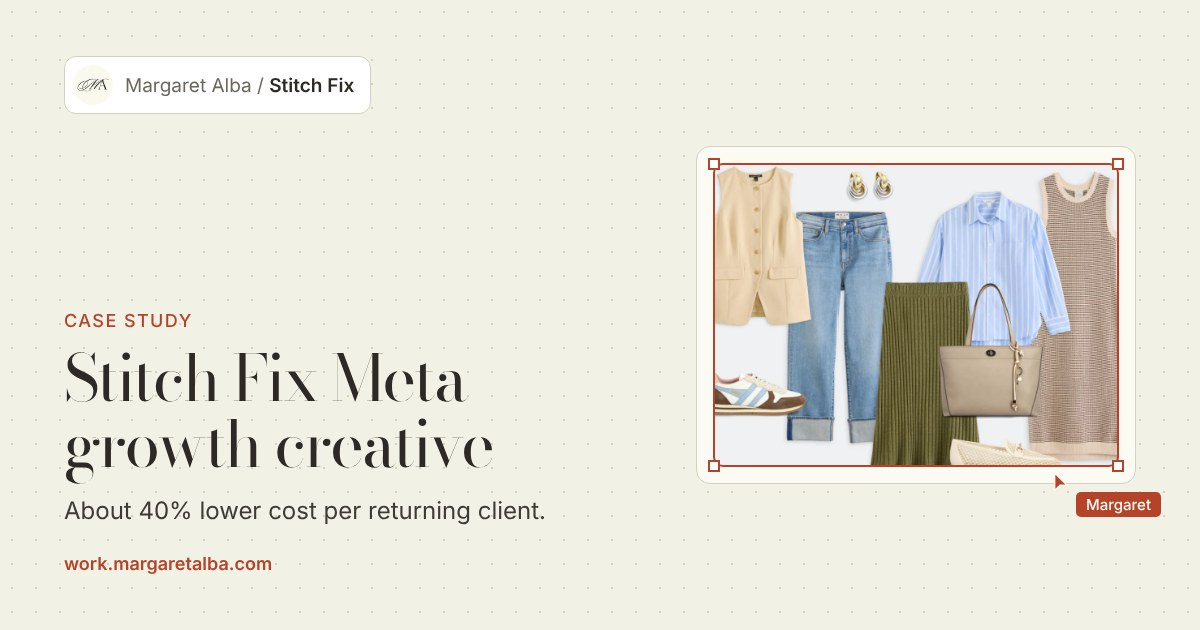
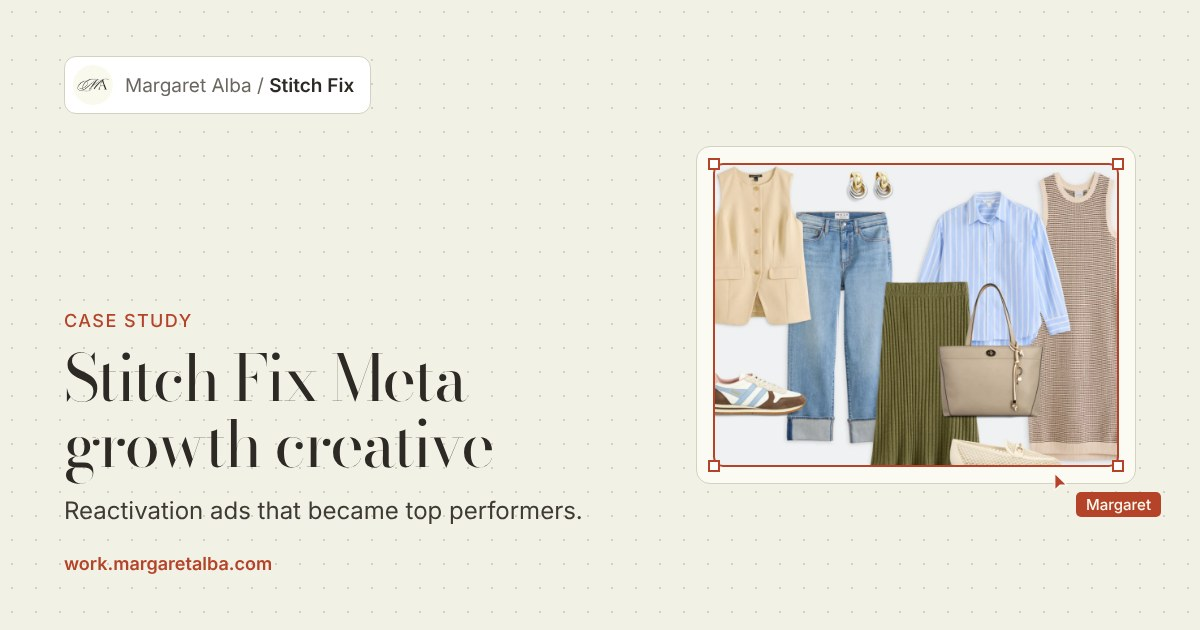
Hide the site from search again; describe Stitch Fix results without figures
Re-adds noindex to every page and drops the sitemap. Stitch Fix reactivation
results are now stated qualitatively; the homepage row uses the 96-asset count.

Claude-Session: https://claude.ai/code/session_01Bp2y4MwKfvAmLHEs5SbnWi

Changed region(s): [[0.0308, 0.7841, 0.4933, 0.8444]]

diff --git a/index.html b/index.html
@@ -7,6 +7,8 @@
 <meta name="description" content="Margaret Alba is a marketer with a designer’s eye. Campaigns, promotions, and paid social for direct-to-consumer brands.">
 <meta property="og:title" content="Margaret Alba | Marketing portfolio">
 <meta property="og:description" content="Margaret Alba is a marketer with a designer’s eye. Campaigns, promotions, and paid social for direct-to-consumer brands.">
+<!-- Hidden from search engines while job hunting. Delete the next line to let Google list the site. -->
+<meta name="robots" content="noindex">
 <meta property="og:type" content="website">
 <link rel="canonical" href="https://work.margaretalba.com/">
 <meta property="og:url" content="https://work.margaretalba.com/">
@@ -114,7 +116,7 @@ div[style*="repeat(4,1fr)"]{grid-template-columns:repeat(2,1fr)!important}
 <div style="font-size:13px;letter-spacing:.08em;text-transform:uppercase;color:#B54329;font-weight:500">Selected work</div>
 <h1 class="bd" style="margin:0;font-size:68px;line-height:1.04;letter-spacing:-.03em">Marketing with a designer’s&nbsp;eye<span class="gc" aria-hidden="true"><span class="cu"><svg width="20" height="30" viewBox="0 0 24 36" fill="none"><path d="M5.65376 12.3673H5.46026L5.31717 12.4976L0.500002 16.8829L0.500002 1.19841L11.7841 12.3673H5.65376Z" fill="#B54329" stroke="white"/></svg><b>Hi, I’m Margaret</b></span></span></h1>
 <p style="margin:0;font-size:19px;color:#3E3A34;max-width:600px">Campaigns, promotions, and paid social for direct-to-consumer brands. Here are a few of my case studies.</p>
-<div style="display:flex;flex-wrap:wrap;gap:20px 40px;margin-top:28px"><div style="display:flex;flex-direction:column;gap:2px"><span class="bd" style="font-size:40px;line-height:1;color:#B54329">~40%</span><span style="font-size:13px;color:#6B665E">lower cost per returning client, Stitch Fix</span></div><div style="display:flex;flex-direction:column;gap:2px"><span class="bd" style="font-size:40px;line-height:1;color:#B54329">+220%</span><span style="font-size:13px;color:#6B665E">GMV, LTK × Madewell sale</span></div><div style="display:flex;flex-direction:column;gap:2px"><span class="bd" style="font-size:40px;line-height:1;color:#B54329">459K</span><span style="font-size:13px;color:#6B665E">views on a wool&amp; Short</span></div></div>
+<div style="display:flex;flex-wrap:wrap;gap:20px 40px;margin-top:28px"><div style="display:flex;flex-direction:column;gap:2px"><span class="bd" style="font-size:40px;line-height:1;color:#B54329">96</span><span style="font-size:13px;color:#6B665E">Meta assets in one Stitch Fix campaign</span></div><div style="display:flex;flex-direction:column;gap:2px"><span class="bd" style="font-size:40px;line-height:1;color:#B54329">+220%</span><span style="font-size:13px;color:#6B665E">GMV, LTK × Madewell sale</span></div><div style="display:flex;flex-direction:column;gap:2px"><span class="bd" style="font-size:40px;line-height:1;color:#B54329">459K</span><span style="font-size:13px;color:#6B665E">views on a wool&amp; Short</span></div></div>
 <div class="bub" style="position: absolute; right: -139px; top: -15px; display: flex; align-items: flex-start; gap: 8px" aria-hidden="true"><div style="width:32px;height:32px;border-radius:50% 50% 50% 0;background:#B54329;color:#F9F9EE;display:flex;align-items:center;justify-content:center;font-size:13px;font-weight:600">1</div><div style="background:#fff;border:1px solid #D5D1C0;border-radius:12px;padding:10px 14px;font-size:13px;width:170px;line-height:1.4">I also teach wax carving. <a href="https://margaretalba.com" style="color:#B54329;font-weight:600">Visit the studio →</a></div></div>
 </div>
 
@@ -123,7 +125,7 @@ div[style*="repeat(4,1fr)"]{grid-template-columns:repeat(2,1fr)!important}
 
 <a class="fr" href="/stitch-fix-meta">
 <div style="display:flex;justify-content:space-between;font-size:12px;color:#6B665E"><span>Stitch Fix Meta Growth Creative</span><span>01</span></div>
-<div style="background:#FBFAF3;border:1px solid #D5D1C0;border-radius:12px;padding:16px;display:flex;flex-direction:column;gap:20px"><div class="ph" style="aspect-ratio:4/3;position:relative"><img loading="lazy" decoding="async" src="/assets/img/thumb-stitch-fix.webp" alt="A styled spring outfit flat lay: a cream vest, cuffed jeans, a blue striped shirt, an olive skirt, a knit dress, a tote and sneakers." style="display:block;width:100%;height:100%;object-fit:cover;border-radius:10px"><div aria-hidden="true" style="position:absolute;inset:0;border:2px solid #B54329;border-radius:10px;pointer-events:none"><i class="hn" style="left:-6px;top:-6px"></i><i class="hn" style="right:-6px;top:-6px"></i><i class="hn" style="left:-6px;bottom:-6px"></i><i class="hn" style="right:-6px;bottom:-6px"></i><span style="position:absolute;left:12px;bottom:12px;background:#F9F9EE;border:1px solid #D5D1C0;border-radius:6px;padding:4px 10px;font-size:12px;font-weight:500;color:#2D2A25">Stitch Fix · Meta ads</span></div></div><div style="padding:0 8px 8px;display:flex;flex-direction:column;gap:14px"><div class="ct bd" style="font-size:28px;line-height:1.12;transition:color .2s">Meta ads for Stitch Fix, with about 40% lower cost per returning client.</div><div style="display:flex;flex-wrap:wrap;gap:8px"><span class="chip">Paid social</span><span class="chip">Reactivation</span><span class="chip">Acquisition</span></div></div></div>
+<div style="background:#FBFAF3;border:1px solid #D5D1C0;border-radius:12px;padding:16px;display:flex;flex-direction:column;gap:20px"><div class="ph" style="aspect-ratio:4/3;position:relative"><img loading="lazy" decoding="async" src="/assets/img/thumb-stitch-fix.webp" alt="A styled spring outfit flat lay: a cream vest, cuffed jeans, a blue striped shirt, an olive skirt, a knit dress, a tote and sneakers." style="display:block;width:100%;height:100%;object-fit:cover;border-radius:10px"><div aria-hidden="true" style="position:absolute;inset:0;border:2px solid #B54329;border-radius:10px;pointer-events:none"><i class="hn" style="left:-6px;top:-6px"></i><i class="hn" style="right:-6px;top:-6px"></i><i class="hn" style="left:-6px;bottom:-6px"></i><i class="hn" style="right:-6px;bottom:-6px"></i><span style="position:absolute;left:12px;bottom:12px;background:#F9F9EE;border:1px solid #D5D1C0;border-radius:6px;padding:4px 10px;font-size:12px;font-weight:500;color:#2D2A25">Stitch Fix · Meta ads</span></div></div><div style="padding:0 8px 8px;display:flex;flex-direction:column;gap:14px"><div class="ct bd" style="font-size:28px;line-height:1.12;transition:color .2s">Meta ads for Stitch Fix that brought lapsed clients back for less.</div><div style="display:flex;flex-wrap:wrap;gap:8px"><span class="chip">Paid social</span><span class="chip">Reactivation</span><span class="chip">Acquisition</span></div></div></div>
 <div class="sel" aria-hidden="true"><i class="hn" style="left:-6px;top:-6px"></i><i class="hn" style="right:-6px;top:-6px"></i><i class="hn" style="left:-6px;bottom:-6px"></i><i class="hn" style="right:-6px;bottom:-6px"></i></div>
 </a>
 

diff --git a/stitch-fix-meta/index.html b/stitch-fix-meta/index.html
@@ -4,9 +4,11 @@
 <meta charset="utf-8">
 <meta name="viewport" content="width=device-width, initial-scale=1">
 <title>Stitch Fix Meta Growth Creative | Margaret Alba</title>
-<meta name="description" content="Meta ads for Stitch Fix: a 96-asset lower-funnel refresh and reactivation ads with about 40% lower cost per returning client.">
+<meta name="description" content="Meta ads for Stitch Fix: a 96-asset lower-funnel refresh and reactivation ads that beat the product ads on cost per returning client.">
 <meta property="og:title" content="Stitch Fix Meta Growth Creative | Margaret Alba">
-<meta property="og:description" content="Meta ads for Stitch Fix: a 96-asset lower-funnel refresh and reactivation ads with about 40% lower cost per returning client.">
+<meta property="og:description" content="Meta ads for Stitch Fix: a 96-asset lower-funnel refresh and reactivation ads that beat the product ads on cost per returning client.">
+<!-- Hidden from search engines while job hunting. Delete the next line to let Google list the site. -->
+<meta name="robots" content="noindex">
 <meta property="og:type" content="website">
 <link rel="canonical" href="https://work.margaretalba.com/stitch-fix-meta/">
 <meta property="og:url" content="https://work.margaretalba.com/stitch-fix-meta/">
@@ -90,7 +92,7 @@ div[style*="repeat(4,1fr)"]{grid-template-columns:repeat(2,1fr)!important}
 <div style="display:flex;flex-direction:column;gap:20px;max-width:820px">
 <div class="ey">Case study 01</div>
 <h1 class="bd" style="margin:0;font-size:72px;line-height:1.02;letter-spacing:-.03em">Stitch Fix Meta Growth Creative</h1>
-<p style="margin:0;font-size:22px;line-height:1.5;color:#3E3A34">I create Meta ads for Stitch Fix, from a 96-asset lower-funnel refresh to win-back ads that brought lapsed clients back for about 40% less.</p>
+<p style="margin:0;font-size:22px;line-height:1.5;color:#3E3A34">I create Meta ads for Stitch Fix, from a 96-asset lower-funnel refresh to win-back ads that became top performers.</p>
 </div>
 
 <div style="display:flex;flex-wrap:wrap;gap:56px;align-items:flex-start">
@@ -107,8 +109,7 @@ div[style*="repeat(4,1fr)"]{grid-template-columns:repeat(2,1fr)!important}
 
 <section id="rx" style="display:flex;flex-direction:column;gap:32px"><div class="ey">Reactivation</div>
 <div style="display:flex;flex-direction:column;gap:14px"><p class="bd" style="margin:0;font-size:36px;line-height:1.2">Bringing lapsed clients back.</p><p class="p">Reactivation ads reach people who’ve used Stitch Fix before and drifted away. They already know the service, so the job is giving them a good reason to come back. I created the ads for several reactivation campaigns, each with its own offer for a different group of lapsed clients: 10% off, a waived styling fee, 20% off two Fixes, or just what’s new.</p></div>
-<div style="display:grid;grid-template-columns:repeat(auto-fit,minmax(200px,1fr));gap:16px"><div class="fm" style="background:#fff;display:flex;flex-direction:column;gap:4px;padding:22px 24px"><div class="bd" style="font-size:60px;line-height:1;color:#B54329">~40%</div><div style="font-size:14px;color:#6B665E">Lower cost per returning client: the 20%-off static, women’s and men’s</div></div><div class="fm" style="background:#fff;display:flex;flex-direction:column;gap:4px;padding:22px 24px"><div class="bd" style="font-size:60px;line-height:1;color:#B54329">~38%</div><div style="font-size:14px;color:#6B665E">Lower cost per returning client: the waived-fee static</div></div><div class="fm" style="background:#fff;display:flex;flex-direction:column;gap:4px;padding:22px 24px"><div class="bd" style="font-size:60px;line-height:1;color:#B54329">−25%</div><div style="font-size:14px;color:#6B665E">Cost per returning client as the waived-fee static’s budget grew</div></div></div>
-<p class="cap" style="margin:0">From my best-performing reactivation statics, compared with the dynamic product ads running at the same time.</p>
+<p class="bd" style="margin:0;font-size:28px;line-height:1.3;color:#B54329">My strongest statics became top performers, bringing lapsed clients back for less than the dynamic product ads. One got more budget and kept getting more efficient as it grew.</p>
 <div><div class="bd sh">Start from what’s worked.</div><p class="p">The brief gave me the goal, and I took it from there: picking the photos, building on layouts that had performed well before, and treating the offer the way past results said to.</p></div>
 <div><div class="bd sh">Lead with the clothes.</div><p class="p">Lapsed clients already know how Stitch Fix works, so I didn’t spend the ad explaining it. I led with exciting merch instead. New clients are the opposite: they need the brands and the process. I styled some outfits myself and picked others with Lynette Pone, our visual content strategist.</p></div>
 <div><div class="bd sh">Fresh, but familiar.</div><p class="p">People who’ve left have seen Stitch Fix ads before. Each campaign, I build on past winners and stay on brand, but try something new so the ads don’t feel like ones they’ve already scrolled past.</p></div>

diff --git a/video/index.html b/video/index.html
@@ -7,6 +7,8 @@
 <meta name="description" content="How I script, film and edit video, with examples from wool&amp;, Under Luna and my own channel.">
 <meta property="og:title" content="Video and creator content | Margaret Alba">
 <meta property="og:description" content="How I script, film and edit video, with examples from wool&amp;, Under Luna and my own channel.">
+<!-- Hidden from search engines while job hunting. Delete the next line to let Google list the site. -->
+<meta name="robots" content="noindex">
 <meta property="og:type" content="website">
 <link rel="canonical" href="https://work.margaretalba.com/video/">
 <meta property="og:url" content="https://work.margaretalba.com/video/">

diff --git a/ltk-adidas/index.html b/ltk-adidas/index.html
@@ -7,6 +7,8 @@
 <meta name="description" content="The first-ever in-app LTK × adidas sale: emails, story templates, banners and decks.">
 <meta property="og:title" content="LTK × adidas In-App Sale | Margaret Alba">
 <meta property="og:description" content="The first-ever in-app LTK × adidas sale: emails, story templates, banners and decks.">
+<!-- Hidden from search engines while job hunting. Delete the next line to let Google list the site. -->
+<meta name="robots" content="noindex">
 <meta property="og:type" content="website">
 <link rel="canonical" href="https://work.margaretalba.com/ltk-adidas/">
 <meta property="og:url" content="https://work.margaretalba.com/ltk-adidas/">

diff --git a/more-to-say/index.html b/more-to-say/index.html
@@ -7,6 +7,8 @@
 <meta name="description" content="Visual identity and launch assets for LTK’s podcast, More to Say.">
 <meta property="og:title" content="More to Say: Podcast Launch Identity | Margaret Alba">
 <meta property="og:description" content="Visual identity and launch assets for LTK’s podcast, More to Say.">
+<!-- Hidden from search engines while job hunting. Delete the next line to let Google list the site. -->
+<meta name="robots" content="noindex">
 <meta property="og:type" content="website">
 <link rel="canonical" href="https://work.margaretalba.com/more-to-say/">
 <meta property="og:url" content="https://work.margaretalba.com/more-to-say/">

diff --git a/project-object/index.html b/project-object/index.html
@@ -7,6 +7,8 @@
 <meta name="description" content="Brand, events and the online shop for Project Object, a new Portland store.">
 <meta property="og:title" content="Project Object | Margaret Alba">
 <meta property="og:description" content="Brand, events and the online shop for Project Object, a new Portland store.">
+<!-- Hidden from search engines while job hunting. Delete the next line to let Google list the site. -->
+<meta name="robots" content="noindex">
 <meta property="og:type" content="website">
 <link rel="canonical" href="https://work.margaretalba.com/project-object/">
 <meta property="og:url" content="https://work.margaretalba.com/project-object/">

diff --git a/ltk-madewell/index.html b/ltk-madewell/index.html
@@ -7,6 +7,8 @@
 <meta name="description" content="LTK × Madewell in-app sale: emails, social posts, banners and decks.">
 <meta property="og:title" content="LTK × Madewell In-App Sale | Margaret Alba">
 <meta property="og:description" content="LTK × Madewell in-app sale: emails, social posts, banners and decks.">
+<!-- Hidden from search engines while job hunting. Delete the next line to let Google list the site. -->
+<meta name="robots" content="noindex">
 <meta property="og:type" content="website">
 <link rel="canonical" href="https://work.margaretalba.com/ltk-madewell/">
 <meta property="og:url" content="https://work.margaretalba.com/ltk-madewell/">

diff --git a/about/index.html b/about/index.html
@@ -7,6 +7,8 @@
 <meta name="description" content="About Margaret Alba, a marketer with a designer’s eye based in Portland.">
 <meta property="og:title" content="About | Margaret Alba">
 <meta property="og:description" content="About Margaret Alba, a marketer with a designer’s eye based in Portland.">
+<!-- Hidden from search engines while job hunting. Delete the next line to let Google list the site. -->
+<meta name="robots" content="noindex">
 <meta property="og:type" content="website">
 <link rel="canonical" href="https://work.margaretalba.com/about/">
 <meta property="og:url" content="https://work.margaretalba.com/about/">

diff --git a/README.md b/README.md
@@ -16,7 +16,7 @@ Static site, no build step. Open `index.html` through any web server to preview,
 
 ## Before you share it
 - **Fonts:** every page loads the Adobe Fonts web project `haz5lhc` for IvyPresto Display. If the headings fall back to Bodoni Moda, check that IvyPresto Display is in that web project.
-- **Search engines:** the site is open to search engines, with a `sitemap.xml` and `robots.txt` at the root. The 404 page stays hidden from search.
+- **Search engines:** every page has `<meta name="robots" content="noindex">`, so Google won’t list the site; people only find it through a link you share. Delete that line from each page (and add a `sitemap.xml` back) when you want it findable.
 - **Link previews:** each page has its own 1200×630 preview image in `assets/img/og/`, shown when a link is shared on LinkedIn, Slack, iMessage and similar.
 - **Links:** About and the case studies live at `/about`, `/ltk-madewell`, `/stitch-fix-meta`, `/video`, `/ltk-adidas`, `/project-object` and `/more-to-say`. The Studio links go to margaretalba.com.
 
